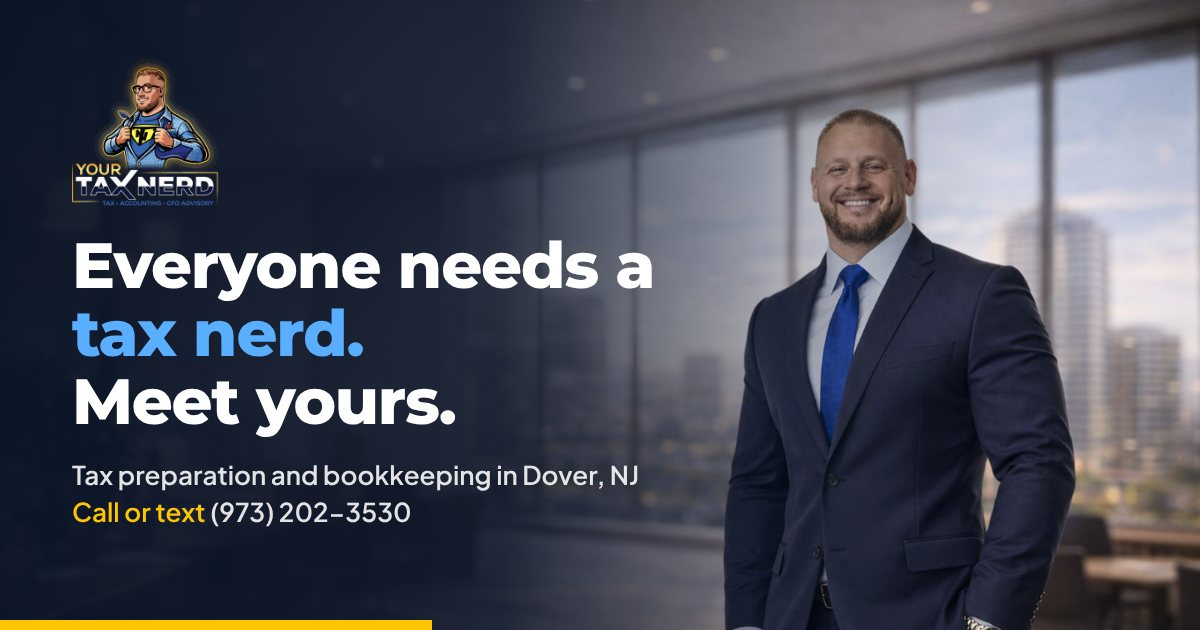
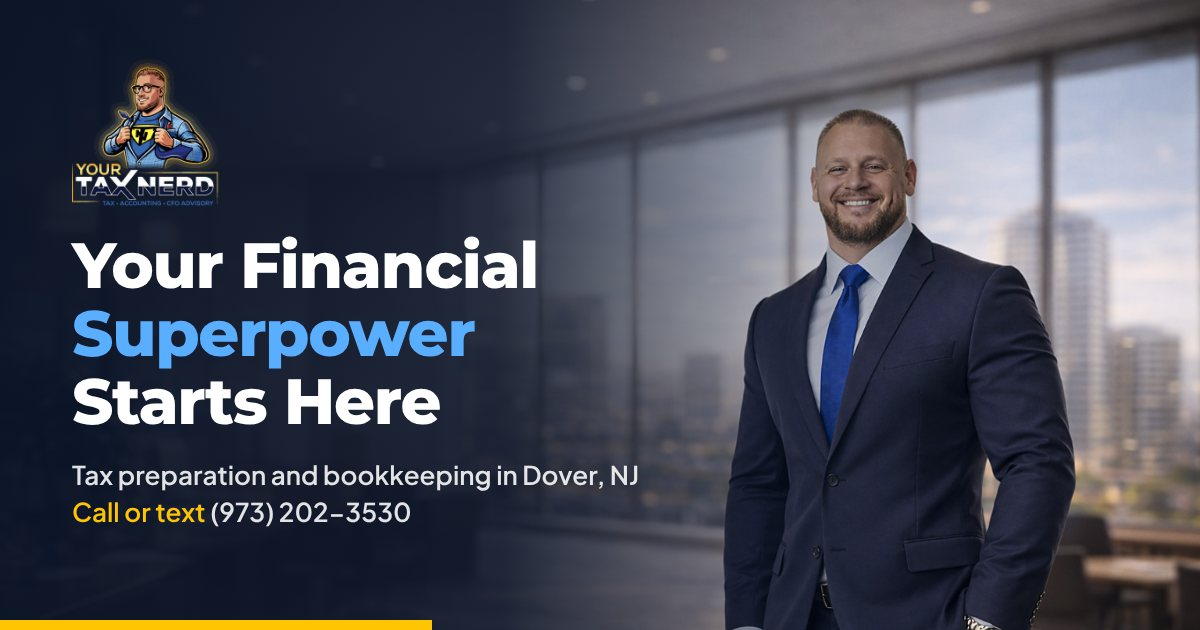
Home headline: Your Financial Superpower Starts Here
The client's tagline from the earlier site, on 3 lines with "Superpower"
in bright blue as before, keeping the word-by-word opening animation.
Sharing image updated to match.

Claude-Session: https://claude.ai/code/session_01CcdFRxAVUPTW8S3kVSubtv

Changed region(s): [[0.0617, 0.3619, 0.555, 0.6937], [0.8017, 0.9952, 0.8325, 1.0]]

diff --git a/public/index.html b/public/index.html
@@ -146,7 +146,7 @@
       <div class="wrap hero-grid">
         <div class="hero-copy">
           <p class="eyebrow">Tax preparation and bookkeeping in Dover, NJ</p>
-          <h1><span class="w"><span style="--i:0">Everyone</span></span> <span class="w"><span style="--i:1">needs</span></span> <span class="w"><span style="--i:2">a</span></span> <span class="hl"><span class="w"><span style="--i:3">tax</span></span> <span class="w"><span style="--i:4">nerd.</span></span></span><br> <span class="w"><span style="--i:5">Meet</span></span> <span class="w"><span style="--i:6">yours.</span></span></h1>
+          <h1><span class="w"><span style="--i:0">Your</span></span> <span class="w"><span style="--i:1">Financial</span></span><br> <span class="hl"><span class="w"><span style="--i:2">Superpower</span></span></span><br> <span class="w"><span style="--i:3">Starts</span></span> <span class="w"><span style="--i:4">Here</span></span></h1>
           <p class="lead">Your Tax Nerd is the Dover, NJ tax and bookkeeping practice of Mike Frey. We prepare tax returns and keep the books for individuals, families and small businesses, online, by video, or face to face at your home, including evenings and weekends.</p>
           <div class="btn-row"><a class="btn btn--gold" href="tel:+19732023530"><svg class="icon" aria-hidden="true" focusable="false"><use href="/assets/icons.svg#i-phone"></use></svg><span>(973) 202-3530</span></a><a class="btn btn--white" href="#contact"><svg class="icon" aria-hidden="true" focusable="false"><use href="/assets/icons.svg#i-contact"></use></svg><span>Contact us</span></a></div>
           <ul class="hero-proof">
